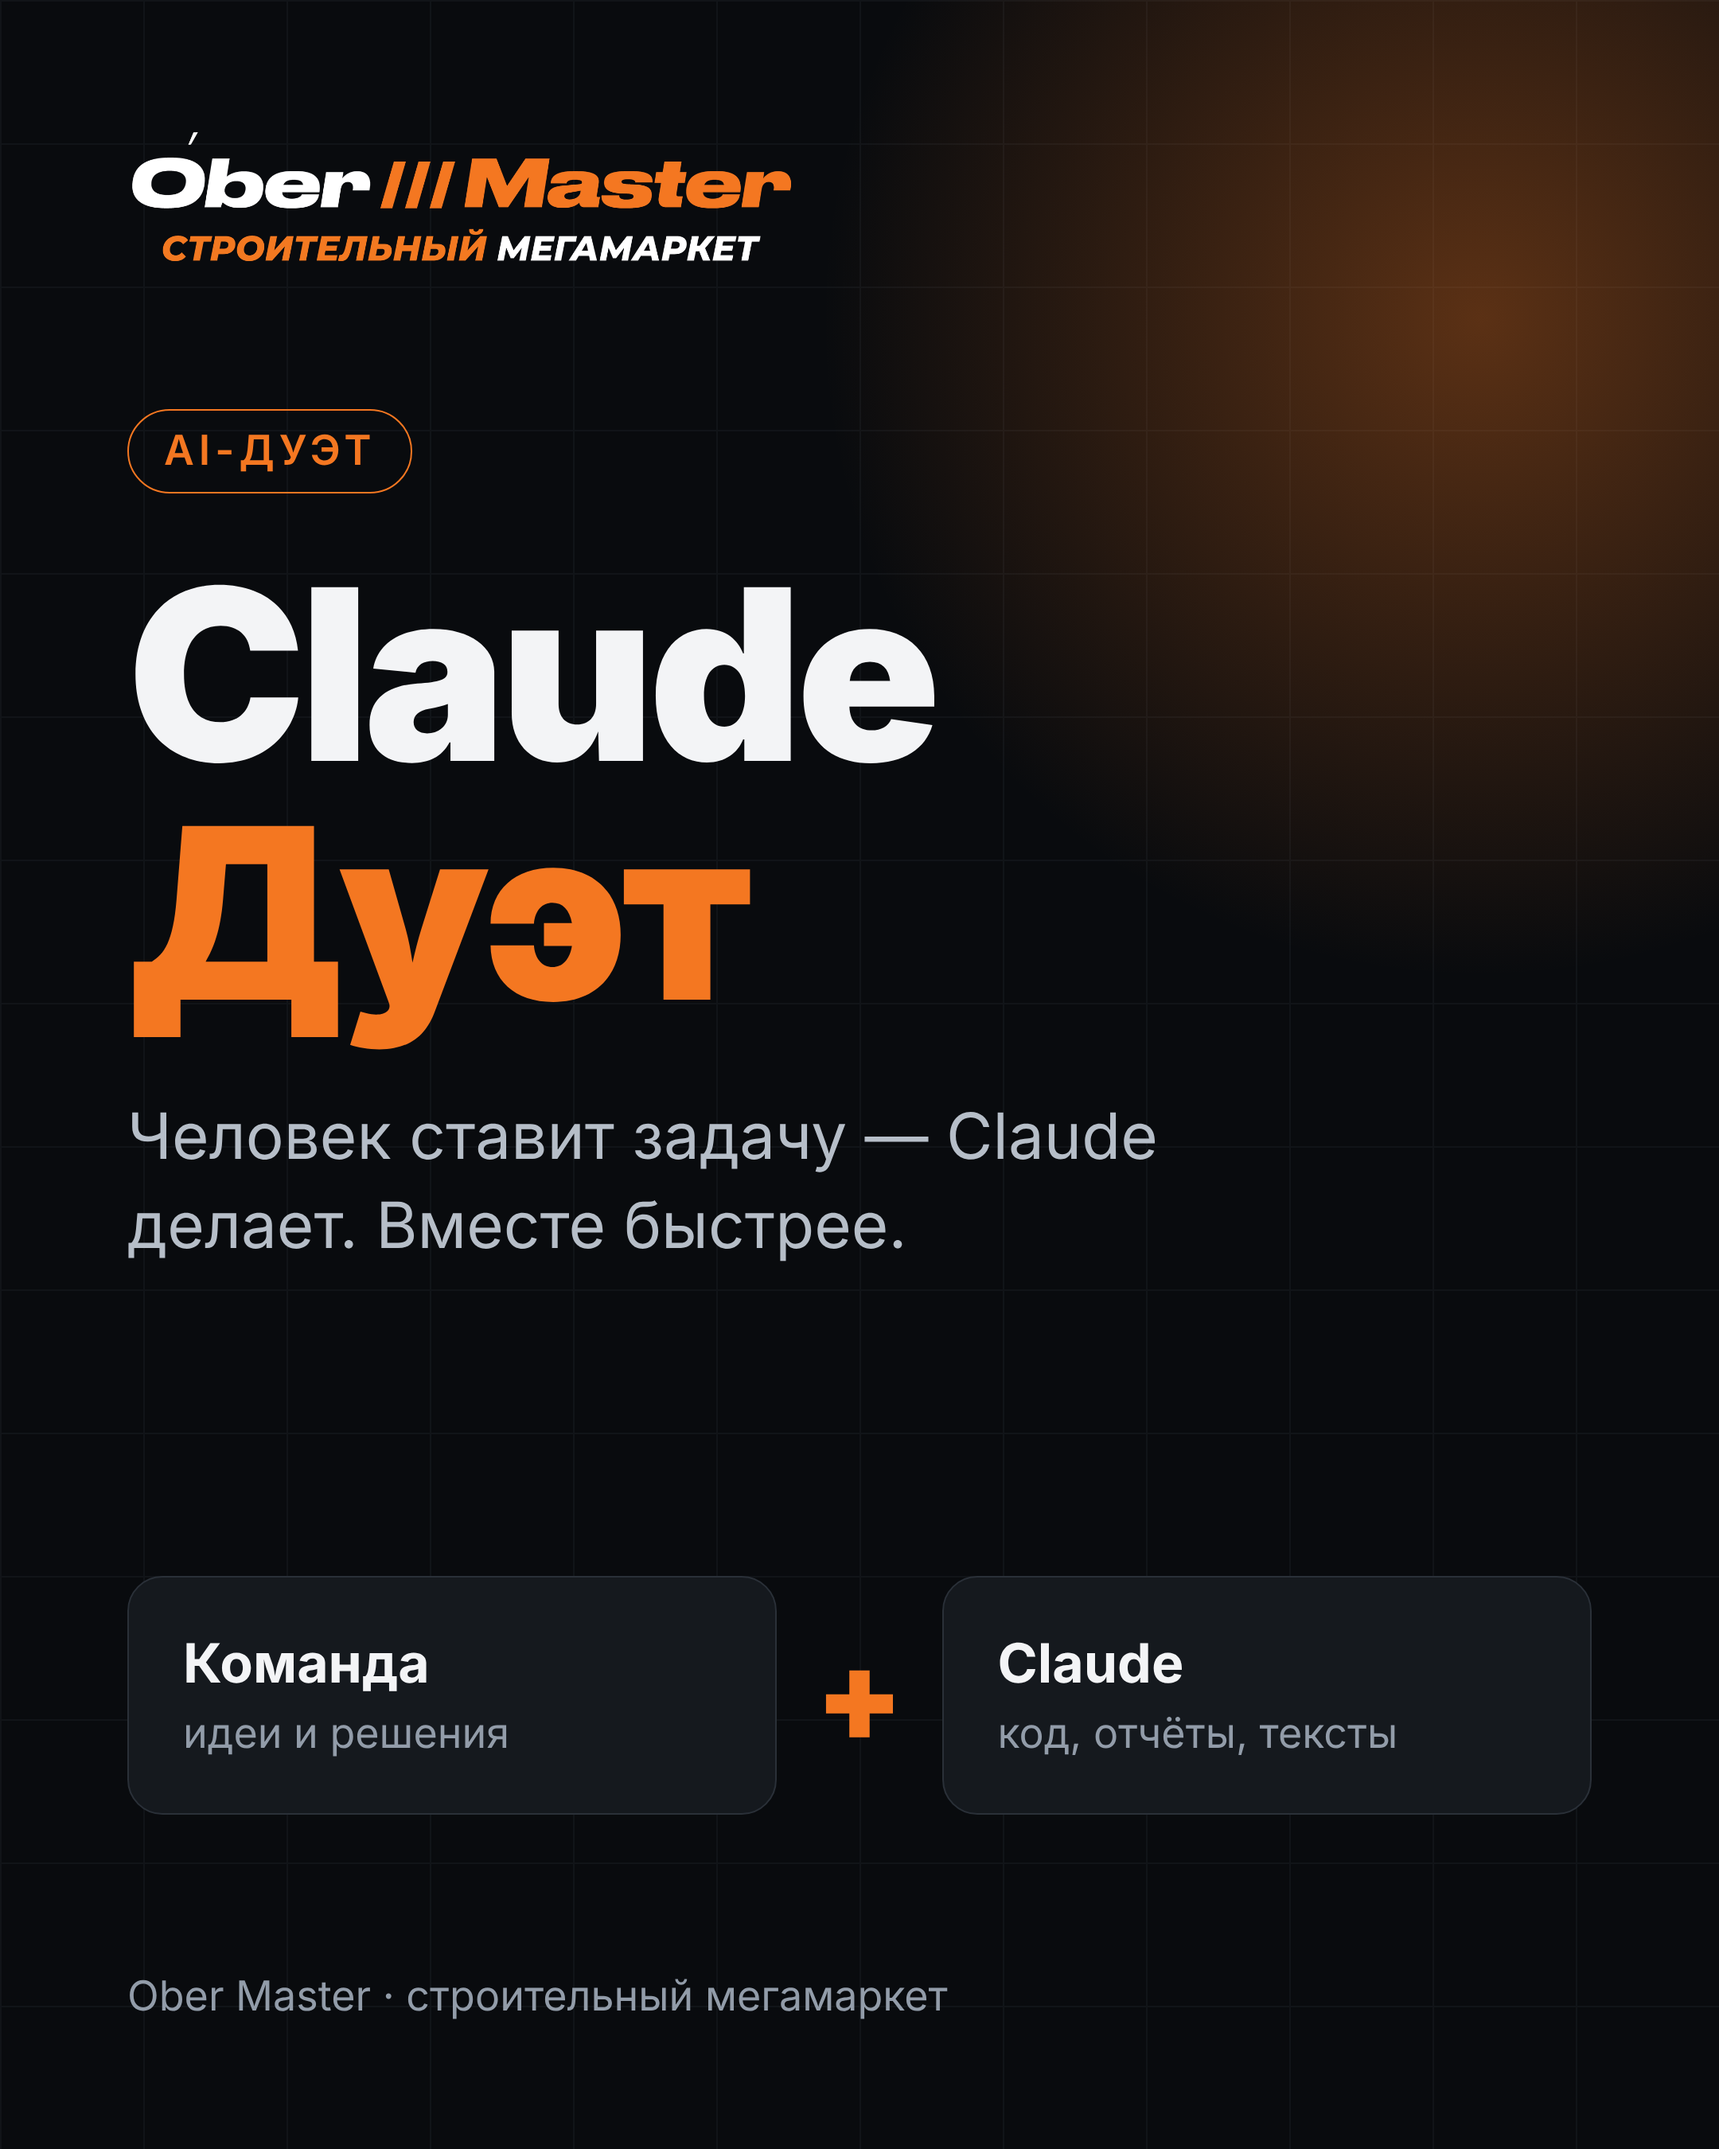
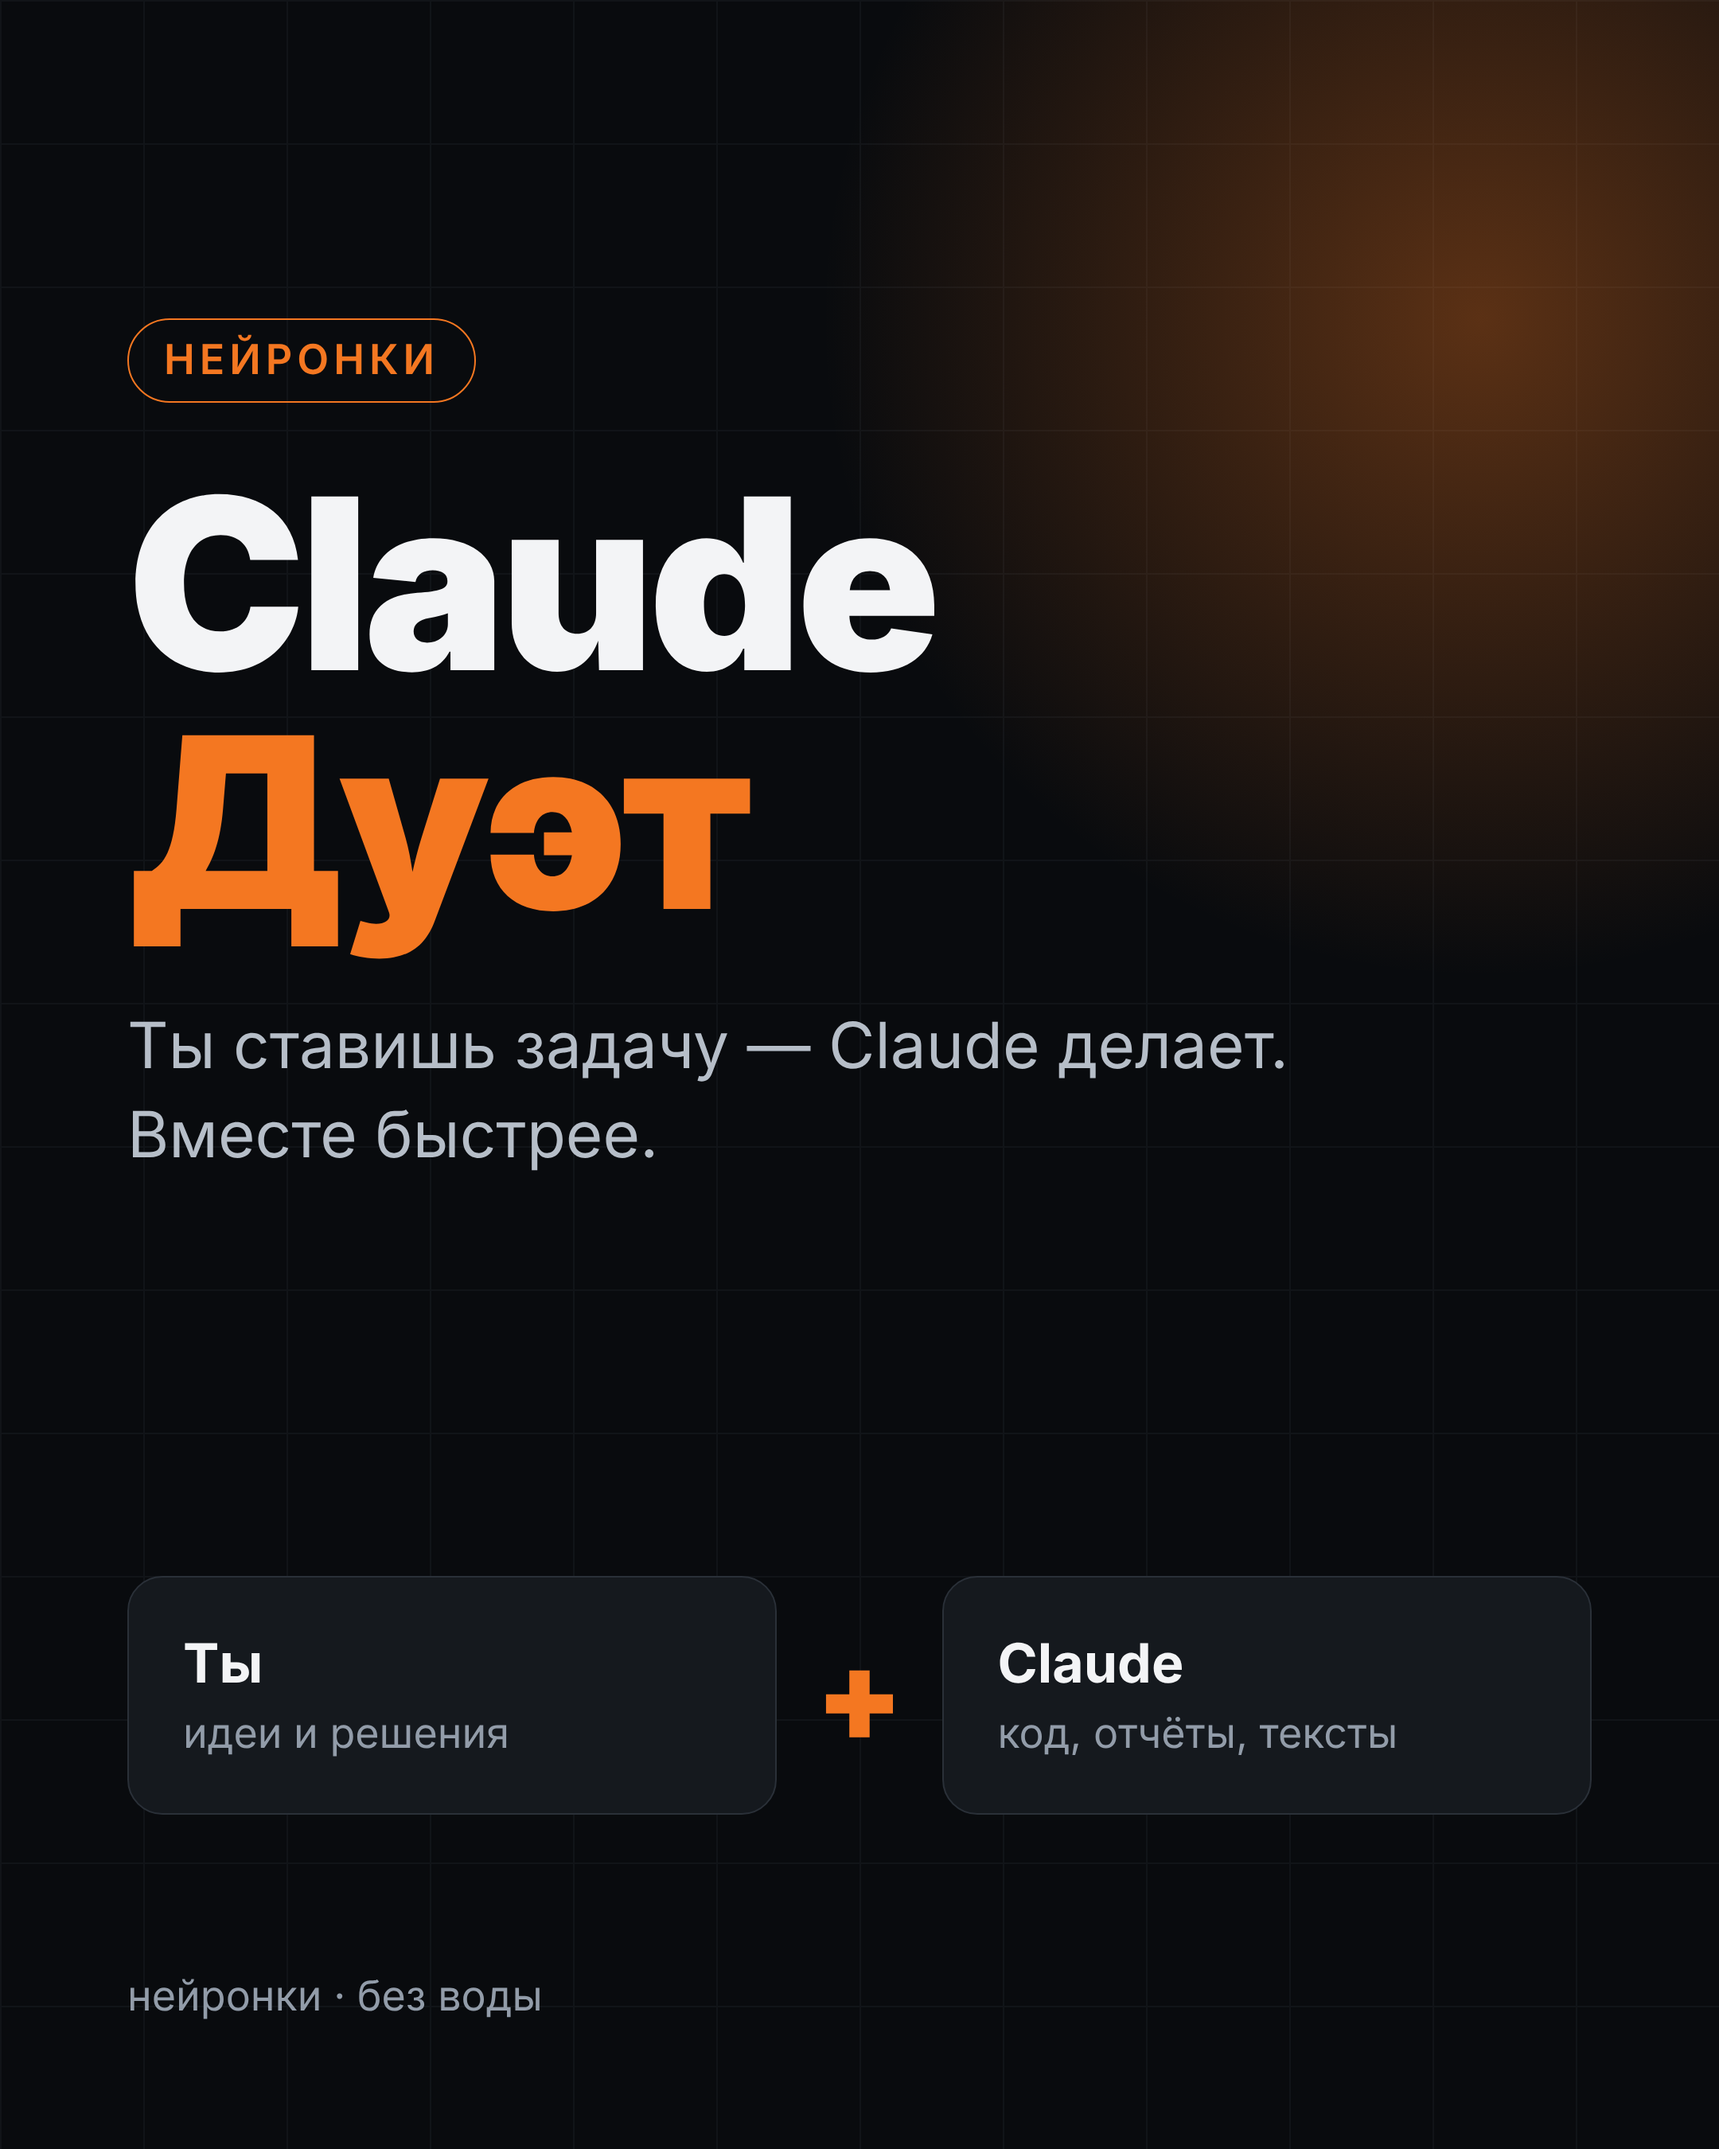
Remove Ober branding from Claude Duet post
Claude-Session: https://claude.ai/code/session_01BB8QTJuy81kTkvUwmk31Zp

diff --git a/post/post.html b/post/post.html
@@ -3,9 +3,9 @@
 body{width:1080px;height:1350px;background:#090b0e;color:#f3f4f6;font-family:Inter,"Helvetica Neue",Arial,sans-serif;position:relative;overflow:hidden}
 .glow{position:absolute;width:900px;height:900px;right:-300px;top:-250px;background:radial-gradient(circle,rgba(244,119,33,.35),transparent 65%)}
 .grid{position:absolute;inset:0;background-image:linear-gradient(#2a3038 1px,transparent 1px),linear-gradient(90deg,#2a3038 1px,transparent 1px);background-size:90px 90px;opacity:.25}
-.wrap{position:absolute;inset:80px}
+.wrap{position:absolute;inset:80px;padding-top:120px}
 .logo{width:420px;display:block}
-.tag{margin-top:90px;display:inline-block;border:1px solid #f47721;color:#f47721;padding:10px 22px;border-radius:40px;font-size:26px;letter-spacing:3px;font-weight:600}
+.tag{margin-top:0;display:inline-block;border:1px solid #f47721;color:#f47721;padding:10px 22px;border-radius:40px;font-size:26px;letter-spacing:3px;font-weight:600}
 h1{margin-top:40px;font-size:150px;line-height:1;font-weight:900;letter-spacing:-4px}
 h1 span{color:#f47721}
 p.sub{margin-top:36px;font-size:40px;line-height:1.4;color:#b6bec8;max-width:800px}
@@ -17,10 +17,9 @@ p.sub{margin-top:36px;font-size:40px;line-height:1.4;color:#b6bec8;max-width:800
 .bar{position:absolute;left:0;bottom:-80px;width:100%;height:10px;background:#f47721}
 </style></head><body><div class="grid"></div><div class="glow"></div>
 <div class="wrap">
-<img class="logo" src="logo.png">
-<div class="tag">AI-ДУЭТ</div>
+<div class="tag">НЕЙРОНКИ</div>
 <h1>Claude<br><span>Дуэт</span></h1>
-<p class="sub">Человек ставит задачу — Claude делает. Вместе быстрее.</p>
-<div class="duo"><div class="card"><b>Команда</b><i>идеи и решения</i></div><div class="plus">+</div><div class="card"><b>Claude</b><i>код, отчёты, тексты</i></div></div>
-<div class="foot">Ober Master · строительный мегамаркет</div>
+<p class="sub">Ты ставишь задачу — Claude делает. Вместе быстрее.</p>
+<div class="duo"><div class="card"><b>Ты</b><i>идеи и решения</i></div><div class="plus">+</div><div class="card"><b>Claude</b><i>код, отчёты, тексты</i></div></div>
+<div class="foot">нейронки · без воды</div>
 </div><div class="bar"></div></body></html>
